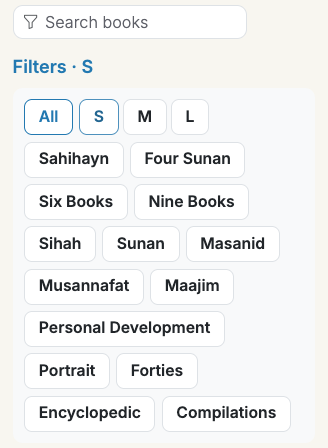
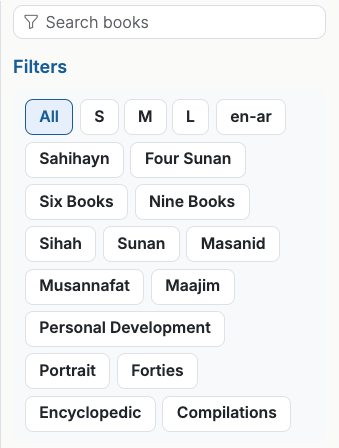
Share one full-width rail filter across Books and Settings

diff --git a/docs/design-system/library.html b/docs/design-system/library.html
@@ -34,7 +34,7 @@
   <section id="navigation"><h2>Navigation &amp; discovery</h2>
     <div class="grid">
       <article><h3>Site navigation preview</h3><picture><source media="(max-width: 700px)" srcset="shell/header-phone.png"><img src="shell/header.png" alt="Beta masthead with a left menu trigger, brand, navigation, search and account"></picture><p>Show full navigation from 992 px. The global search button uses an inset surface, the label “Search the library”, and a platform-specific keyboard shortcut. Leave .85 rem inside each end of the desktop pill, measured to the magnifier and shortcut respectively. Below 992 px, a magnifier opens the same dialog. Keep menu, search and account reachable at both sizes. Group the drawer into Read &amp; study, Memorize, Community and Personal. The signed-in avatar menu shows the account name, labeled personal destinations with drawer icons, and a separate sign-out row. The footer preview uses a compact Midnight band with a small wordmark and inline links. On phones, each navigation group starts a new row with touch-sized links.</p><p><a href="shell/account.png">View the avatar menu</a> · <a href="shell/menu.png">View the mobile menu</a> · <a href="shell/footer.png">View the desktop footer</a></p></article>
-      <article><h3>Category rail &amp; local search</h3><picture><source media="(max-width: 700px)" srcset="settings/rail-mobile.png"><img src="settings/rail.png" alt="Compact Search settings field above the category links"></picture><p>Place the Settings category rail to the right of the panels, with one compact search field above its links. Name its scope in the placeholder and accessible label. Below 701 px, the rail moves above the content and category links occupy two columns.</p><p>Match nested controls and asynchronously loaded catalogs. Announce the count or empty state. Clear and Escape restore the previous disclosures and return focus to the field.</p></article>
+      <article><h3>Category rail &amp; local search</h3><picture><source media="(max-width: 700px)" srcset="settings/rail-mobile.png"><img src="settings/rail.png" alt="Compact Search settings field above the category links"></picture><p>Place the Settings category rail to the right of the panels, with the shared full-width rail search above its links. Books and Settings use the same field, funnel icon, clear button, focus ring and side gutters. Name its scope in the placeholder and accessible label. Below 992 px, the rail moves above the content and category links occupy two columns.</p><p>Match nested controls and asynchronously loaded catalogs. Announce the count or empty state. Clear and Escape restore the previous disclosures and return focus to the field.</p></article>
       <article><h3>Disclosure with current value</h3><img src="settings/disclosures.png" alt="Reading and listening rows with their saved values"><p>Group settings by task. Use a native details/summary row with a short label, current value or count, and a chevron. Place the summary below the label on narrow screens. Opening one row keeps the others available.</p></article>
     </div>
   </section>

diff --git a/public/static/css/settings-beta.css b/public/static/css/settings-beta.css
@@ -23,7 +23,7 @@
   display: flex; align-items: center; gap: .7rem; padding: .55rem .7rem;
   min-height: 44px; color: inherit; text-decoration: none; border-radius: .4rem;
 }
-.settings-beta-index i { color: var(--ux-accent); }
+.settings-beta-index a i { color: var(--ux-accent); }
 .settings-beta-index a:hover, .settings-beta-row > summary:hover { background: var(--ux-inset); }
 .settings-beta-group { margin-bottom: 2rem; }
 .settings-beta-group > h2 { font-size: var(--ux-section-size); font-weight: var(--ux-heading-weight); margin: 0; padding: .4rem 0 .65rem; scroll-margin-top: calc(var(--site-fixed-header-height, 5rem) + 1rem); }
@@ -74,9 +74,7 @@
 .script-choice .sample-indo-pak { font-family: QuranIndoPak, serif; }
 .script-choice .sample-warsh { font-family: QuranWarsh, serif; }
 
-.settings-filter-slot { min-width: 0; max-width: 13rem; margin: .25rem .5rem .25rem 0; align-self: center; width: calc(100% - .5rem); }
-.settings-filter-slot input::-webkit-search-cancel-button { appearance: none; }
-.settings-filter-slot button { width: 32px; height: 32px; background: transparent; border: 0; color: inherit; }
+.settings-filter-slot { grid-column: 1 / -1; }
 .settings-filter-status { font-size: .85rem; margin: .25rem 0 0; color: var(--ux-muted); }
 .settings-filter-status:empty { margin: 0; }
 .settings-beta .settings-filter-miss, .settings-beta-index a[hidden] { display: none !important; }
@@ -125,7 +123,6 @@
   .settings-beta-heading { grid-row: 1; margin-top: var(--heading-rail-sticky-top, calc(var(--site-fixed-header-height, 0px) + 1rem)); }
   #settings-groups { grid-row: 2; margin-top: 1rem; }
   .settings-beta .settings-beta-index { grid-area: 1 / 4 / 3 / 6; overflow-y: auto; border-inline-start: 1px solid var(--ux-border); }
-  .settings-filter-slot { align-self: flex-start; margin-inline-start: .7rem; }
 }
 @media (max-width: 991.98px) {
   .settings-beta-index.hadith-heading-toc { display: grid; grid-template-columns: repeat(2, minmax(0,1fr)); margin-bottom: 1.25rem; position: static; width: 100%; margin-top: 0; max-height: none; }

diff --git a/lib/Utils.js b/lib/Utils.js
@@ -2123,7 +2123,7 @@ class Utils {
 	static scriptAssetVersion() {
 		if (!Utils.SCRIPT_ASSET_VERSION) {
 			try {
-				const script = Buffer.concat(['script.js', 'content-labels.js', 'quran-reader-links.js', 'book-catalog.js', 'quran-navigation.js', 'notebook.js', 'notebook-drive.js', 'notebook-wiki.js', 'notebook-navigator.js', 'notebook-sidebars.js', 'account-controls.js', 'community.js', 'community-cover-cards.js', 'community-image-viewer.js', 'community-social-share.js', 'community-short-editor.js', 'community-formatting.js', 'notebook-rich-editor.js', 'notebook-sections.js', 'community-article-toc.js', 'community-media.js', 'community-post-share.js', 'notebook-share.js', 'notebook-print.js'].map(filename => fsSync.readFileSync(path.join(__dirname, '../public/static/js', filename))));
+				const script = Buffer.concat(['script.js', 'content-labels.js', 'quran-reader-links.js', 'book-catalog.js', 'rail-search.js', 'settings-filter.js', 'quran-navigation.js', 'notebook.js', 'notebook-drive.js', 'notebook-wiki.js', 'notebook-navigator.js', 'notebook-sidebars.js', 'account-controls.js', 'community.js', 'community-cover-cards.js', 'community-image-viewer.js', 'community-social-share.js', 'community-short-editor.js', 'community-formatting.js', 'notebook-rich-editor.js', 'notebook-sections.js', 'community-article-toc.js', 'community-media.js', 'community-post-share.js', 'notebook-share.js', 'notebook-print.js'].map(filename => fsSync.readFileSync(path.join(__dirname, '../public/static/js', filename))));
 				Utils.SCRIPT_ASSET_VERSION = `${Utils.assetVersionSuffix()}-${crypto.createHash('sha256').update(script).digest('hex').substring(0, 12)}`;
 			} catch (_err) {
 				Utils.SCRIPT_ASSET_VERSION = Utils.assetVersionSuffix();

diff --git a/spec/booksRouteCache.spec.js b/spec/booksRouteCache.spec.js
@@ -52,7 +52,7 @@ describe('books catalog performance path', () => {
   test('serves a disk cache hit before Elasticsearch, SQL, or Tafsir lookups', async () => {
     const req = request();
     const res = response();
-    const cachedFile = `${require('os').homedir()}/.hadithdb/cache/hadith${Utils.cacheSuffix()}/books/_books-makeover-v5.html`;
+    const cachedFile = `${require('os').homedir()}/.hadithdb/cache/hadith${Utils.cacheSuffix()}/books/_books-makeover-v6.html`;
     jest.spyOn(Utils, 'shouldFlushCache').mockReturnValue(false);
     jest.spyOn(Utils, 'cachedTextPathForRead').mockReturnValue(`${cachedFile}.gz`);
     jest.spyOn(Utils, 'sendCachedHtml').mockReturnValue(true);
@@ -70,7 +70,7 @@ describe('books catalog performance path', () => {
   test('uses the same versioned cache path for rendering and metadata invalidation', () => {
     const route = fs.readFileSync(path.join(__dirname, '..', 'routes', 'books.js'), 'utf8');
     const updates = fs.readFileSync(path.join(__dirname, '..', 'routes', 'update.js'), 'utf8');
-    expect(route).toContain("Utils.cacheFileFromFilename('_books-makeover-v5', 'html', 'books', 'hadith')");
+    expect(route).toContain("Utils.cacheFileFromFilename('_books-makeover-v6', 'html', 'books', 'hadith')");
     expect(updates).toContain("Utils.flushCachedFile(Utils.cacheFileFromFilename('_books', 'html', 'books', 'hadith'))");
   });
 

diff --git a/public/static/js/settings-filter.js b/public/static/js/settings-filter.js
@@ -1,7 +1,6 @@
 (() => {
   const input = document.getElementById('settings-filter');
   const groups = document.getElementById('settings-groups');
-  const clear = document.querySelector('[data-settings-filter-clear]');
   const status = document.querySelector('[data-settings-filter-status]');
   const entries = [...groups.querySelectorAll('.settings-beta-group')].map(group => {
     const heading = group.querySelector('h2');
@@ -66,23 +65,10 @@
       group.hidden = link.hidden = groupCount === 0;
       count += groupCount;
     }
-    clear.hidden = !input.value;
     const message = !input.value.trim() ? '' : count ? `${count} matching setting${count === 1 ? '' : 's'}` : 'No matching settings. Try a different search.';
     if (status.textContent !== message) status.textContent = message;
   }
-  function reset() {
-    input.value = '';
-    filter();
-    input.focus();
-  }
   input.addEventListener('input', filter);
-  input.addEventListener('keydown', event => {
-    if (event.key === 'Escape' && input.value) {
-      event.preventDefault();
-      reset();
-    }
-  });
-  clear.addEventListener('click', reset);
   // Catalogs and saved summaries can arrive after the reader starts typing.
   new MutationObserver(() => { if (input.value.trim()) filter(); })
     .observe(groups, { childList: true, subtree: true, characterData: true });

diff --git a/routes/update.js b/routes/update.js
@@ -1349,7 +1349,7 @@ async function flushBookCaches(bookAliases) {
   for (const bookAlias of aliases)
     await Utils.flushCacheContaining(bookAlias);
   await Utils.flushCachedFile(Utils.cacheFileFromFilename('_books', 'html', 'books', 'hadith'));
-  await Utils.flushCachedFile(Utils.cacheFileFromFilename('_books-makeover-v5', 'html', 'books', 'hadith'));
+  await Utils.flushCachedFile(Utils.cacheFileFromFilename('_books-makeover-v6', 'html', 'books', 'hadith'));
   await Utils.flushCachedFile(Utils.cacheFileFromFilename('_books'));
   await Utils.flushCachedFile(`${cacheDir}/_books.html`);
   if (!fs.existsSync(cacheDir))
@@ -1383,7 +1383,7 @@ async function flushQuranCatalogBookCaches(bookAliases) {
   await Utils.flushCacheContaining('tafsirs');
   await Utils.flushCacheContaining('tafsir:books');
   await Utils.flushCachedFile(Utils.cacheFileFromFilename('_books', 'html', 'books', 'hadith'));
-  await Utils.flushCachedFile(Utils.cacheFileFromFilename('_books-makeover-v5', 'html', 'books', 'hadith'));
+  await Utils.flushCachedFile(Utils.cacheFileFromFilename('_books-makeover-v6', 'html', 'books', 'hadith'));
   await Utils.flushCachedFile(Utils.cacheFileFromFilename('_books'));
   await Utils.flushCachedFile(`${cacheDir}/_books.html`);
   await Utils.flushCachedFile(`${cacheDir}/_books`);

diff --git a/public/static/css/ux-foundations.css b/public/static/css/ux-foundations.css
@@ -164,17 +164,23 @@
   .ux-panel-header { flex-direction: column; align-items: flex-start; }
 }
 
+.ux-rail-filter-slot { min-width: 0; padding: .25rem .7rem; }
 .ux-rail-search {
   display: flex;
+  width: 100%;
+  min-width: 0;
   align-items: center;
   gap: .35rem;
   padding-inline: .5rem .15rem;
-  font-size: .9rem;
-  background: var(--ux-surface);
-  color: var(--ux-muted);
-  border: 1px solid var(--ux-border);
+  font: 400 .9rem/1.4 var(--ux-font-ui);
+  background: var(--ivory-surface, var(--ux-surface));
+  color: var(--ivory-muted, var(--ux-muted));
+  border: 1px solid var(--ivory-border, var(--ux-border));
   border-radius: .55rem;
 }
 .ux-rail-search:focus-within { border-color: var(--ux-accent); outline: var(--ux-focus-ring); outline-offset: 1px; }
 .ux-rail-search input { flex: 1; min-width: 0; height: 32px; border: 0; padding: 0; background: transparent; color: var(--ux-text); font: inherit; }
-.ux-rail-search input:focus-visible { outline: none; }
+.ux-system .ux-rail-search input:focus-visible { outline: none; }
+.ux-rail-search input::-webkit-search-cancel-button { appearance: none; }
+.ux-rail-search input:placeholder-shown + button { display: none; }
+.ux-rail-search button { width: 32px; height: 32px; padding: 0; border: 0; background: transparent; color: inherit; }

diff --git a/spec/settingsBetaSearch.spec.js b/spec/settingsBetaSearch.spec.js
@@ -6,7 +6,7 @@ const script = fs.readFileSync(require.resolve('../public/static/js/settings-fil
 test('searching for the saved reciter reveals its card even when the catalog arrives later', async () => {
   const dom = new JSDOM(`
     <nav class="settings-beta-index">
-      <input id="settings-filter"><button data-settings-filter-clear></button>
+      <div class="ux-rail-search"><input id="settings-filter"><button></button></div>
       <span data-settings-filter-status></span><a href="#reading">Reading</a>
     </nav>
     <main id="settings-groups"><section class="settings-beta-group"><h2 id="reading">Reading</h2>
@@ -17,6 +17,7 @@ test('searching for the saved reciter reveals its card even when the catalog arr
   try {
     const { window } = dom;
     const document = window.document;
+    window.eval(fs.readFileSync(require.resolve('../public/static/js/rail-search.js'), 'utf8'));
     window.eval(script);
     const input = document.querySelector('input');
     input.value = 'husary';

diff --git a/routes/books.js b/routes/books.js
@@ -70,7 +70,7 @@ async function renderCatalog(req, res) {
   res.locals.res = res;
   const editMode = req.admin && req.editMode;
   const cacheableHtml = !('json' in req.query) && !('tsv' in req.query) && !['tab', 'hadith', 'translation', 'tafsir', 'sharh', 'history', 'mushaf'].some(key => key in req.query);
-  const cachedFile = Utils.cacheFileFromFilename('_books-makeover-v5', 'html', 'books', 'hadith');
+  const cachedFile = Utils.cacheFileFromFilename('_books-makeover-v6', 'html', 'books', 'hadith');
   const flushCache = Utils.shouldFlushCache(req);
   if (flushCache) {
     await Utils.flushCachedFile(cachedFile, { strict: true });

diff --git a/spec/bookCatalogPresentation.spec.js b/spec/bookCatalogPresentation.spec.js
@@ -315,7 +315,7 @@ test('typing a book filter keeps Tafsir selected even when another collection ma
   const doc = dom.window.document;
   const show = jest.fn();
   dom.window.bootstrap = { Tab: function () { this.show = show; } };
-  const filter = doc.querySelector('.book-catalog-filter');
+  const filter = doc.getElementById('book-catalog-filter');
   const empty = doc.querySelector('.book-catalog-filter-empty');
   const tafsir = doc.querySelector('#book-catalog-tafsir-all .book-catalog-card');
   doc.querySelector('#book-catalog-sharh .book-catalog-card').dataset.bookCatalogFilter = 'dorar sharh';

diff --git a/public/static/css/books.css b/public/static/css/books.css
@@ -1,5 +1,5 @@
-.catalog-tools { display: grid; gap: .3rem; padding: .25rem .7rem; }
-.catalog-tools .ux-rail-search { width: min(100%, 13rem); }
+.catalog-tools { display: grid; gap: .3rem; }
+.tafsir-group-rail:has(.catalog-tools) > .hadith-heading-toc-sticky { padding-inline: 0; }
 .catalog-mobile-tools { margin-block-end: .75rem; }
 .catalog-mobile-tools > summary { width: fit-content; min-height: 44px; align-content: center; color: var(--ux-accent); }
 .catalog-facets { min-width: 0; }

diff --git a/public/static/js/rail-search.js b/public/static/js/rail-search.js
@@ -1,0 +1,15 @@
+for (const field of document.querySelectorAll('.ux-rail-search')) {
+  const input = field.querySelector('input');
+  function clear() {
+    input.value = '';
+    input.dispatchEvent(new Event('input', { bubbles: true }));
+    input.focus();
+  }
+  field.querySelector('button').addEventListener('click', clear);
+  input.addEventListener('keydown', event => {
+    if (event.key === 'Escape' && input.value) {
+      event.preventDefault();
+      clear();
+    }
+  });
+}
